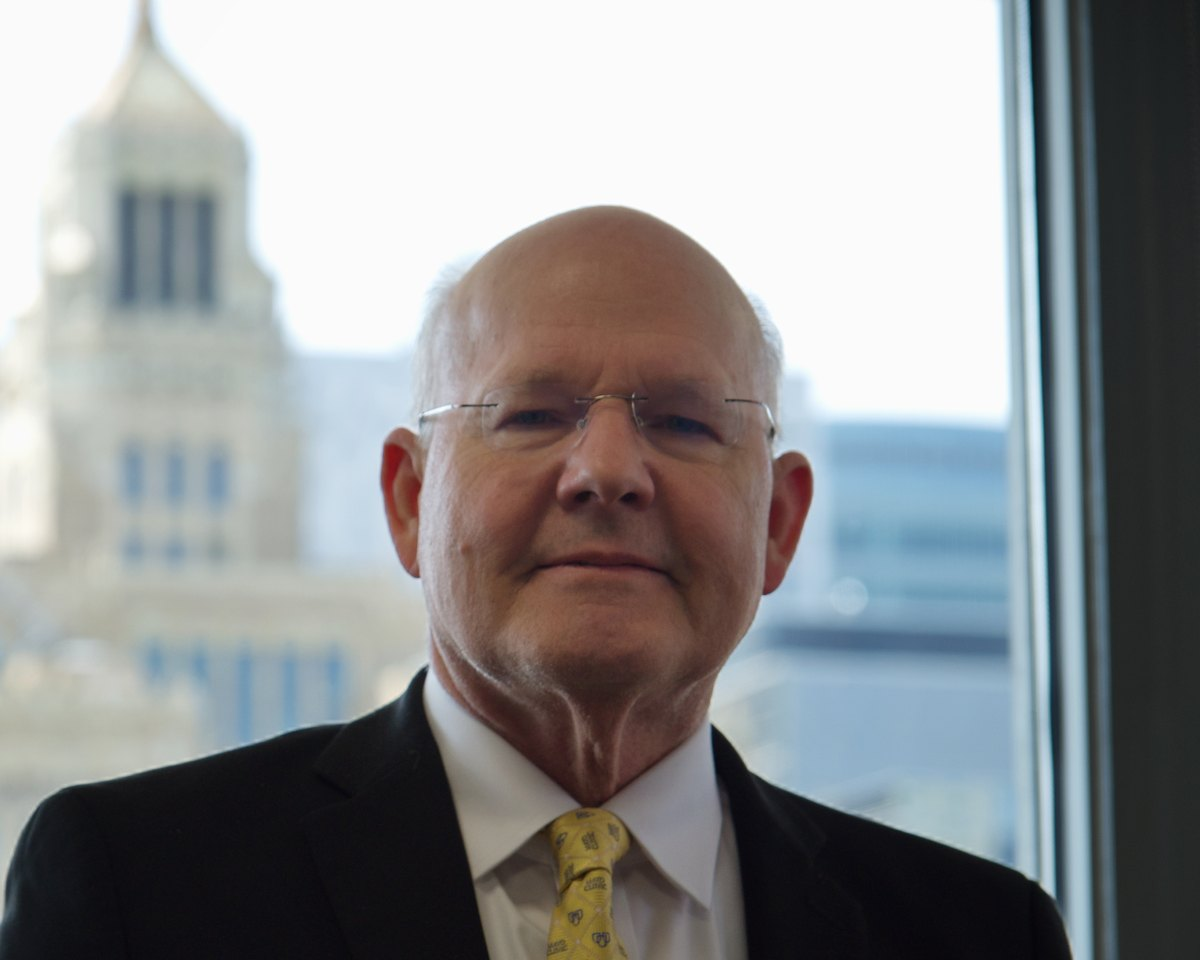
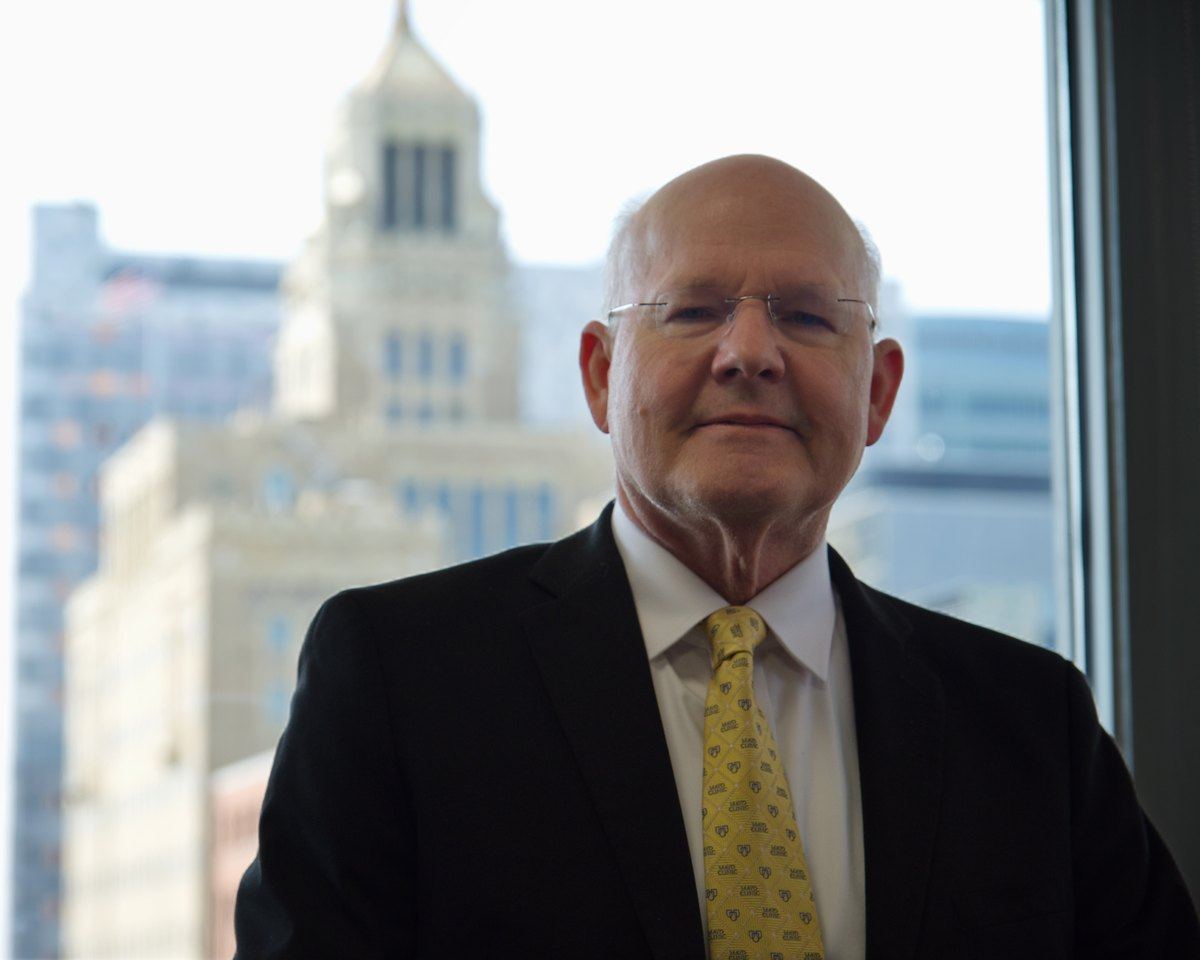
Zoom the 2026 portraits out to full frame
Bennet and Oh were cropped in to put each face at the centre of the file,
which left two head-and-shoulders portraits sitting beside Lee's and
Goerss' three-quarter ones — visibly closer to the camera than the rest
of the row. Both now ship at the full frame, trimmed only to an exact 5:4
(Oh loses 12px of width; Bennet's original is already 5:4), so all four
read at roughly the same distance.

The centring moves to `focus` instead, which is where Lee's and Goerss'
already happened: 83% for Bennet, 89% for Oh, from (face − 32) / 36.

diff --git a/src/pages/Founders.jsx b/src/pages/Founders.jsx
@@ -6,16 +6,23 @@ import { Hero, Reveal, Section } from '../ui/index.js';
  * `focus` is the CSS object-position for the portrait.
  *
  * Every portrait is a landscape frame shown in a 4:5 box, so the browser keeps
- * the full height and crops the sides — and a subject who sits right of centre
- * in the original ends up jammed against the right edge of the card. The two
- * 2026 portraits (Bennet, Oh) were re-cropped on the face, so they take the
- * default. Lee's and Goerss' files are the old site's web-resolution exports;
- * re-cropping those would throw away pixels the page is already upscaling, so
- * they are centred here instead, by moving the crop window rather than the
- * image. The vertical half stays at 0% — see object-top on the <img>.
+ * the full height and crops the sides — and all four subjects sit right of
+ * centre in their originals, which without this puts each face against the
+ * right edge of the card. Moving the crop window is what centres them.
+ *
+ * It is deliberately not done by cropping the files. Bennet's and Oh's 2026
+ * portraits are much tighter shots than Lee's and Goerss', and a face-centred
+ * crop of those two could only be made by cutting in further still — which put
+ * two head-and-shoulders portraits next to two three-quarter ones. Both are now
+ * shipped at full frame, trimmed only to an exact 5:4, so the four read at the
+ * same distance; the centring happens here instead. Lee's and Goerss' files are
+ * the old site's web-resolution exports and could not be re-cropped anyway
+ * without throwing away pixels the page already upscales.
+ *
+ * The vertical half stays at 0% — see object-top on the <img>. Percentages are
+ * (face − 32) / 36, which is where a 64%-wide window has to start to put the
+ * face at its centre.
  */
-const CENTRED = '50% 0%';
-
 const founders = [
   {
     name: 'Kendall H. Lee, M.D., Ph.D.',
@@ -40,7 +47,7 @@ const founders = [
        correct as written. */
     role: 'Co-CEO & Co-Founder',
     image: asset('/kevin-bennet.jpg'),
-    focus: CENTRED,
+    focus: '83% 0%',
     bio: [
       'Dr. Bennet has over 30 years of experience in technology development with organizations including Mayo Clinic, W.R. Grace & Co., Exxon International and Amoco Chemicals. He has been a consultant to the National Institutes of Health and served on NIH site visit teams.',
       'He holds patents concerning neurosurgery, diamond, semiconductor and optical technology and has founded several technology-based companies. He received a degree in Chemical Engineering from the Massachusetts Institute of Technology, an MBA from Harvard and his doctorate from Deakin University.',
@@ -64,7 +71,7 @@ const founders = [
     name: 'Yoonbae Oh, Ph.D.',
     role: 'Co-Founder',
     image: asset('/yoonbae-oh.jpg'),
-    focus: CENTRED,
+    focus: '89% 0%',
     /* Short by comparison because it is only what NaviNetics has supplied: the
        three appointments, plus the publication record that is already on this
        site (see src/data/publications.js — Dr. Oh is the senior author on the

diff --git a/src/pages/WhoWeAre.jsx b/src/pages/WhoWeAre.jsx
@@ -16,7 +16,7 @@ import { Timeline } from '../ui/Timeline.jsx';
 const SHOW_TIMELINE = false;
 
 /* `focus` is the portrait's CSS object-position, and it is the same value the
-   full biography page uses — see the note above `CENTRED` in
+   full biography page uses — see the note above `founders` in
    src/pages/Founders.jsx. It has no visible effect in this 4:3 card, which
    crops these landscape frames vertically rather than horizontally, but the two
    pages should not disagree about where a face is if either box changes shape. */
@@ -26,13 +26,13 @@ const FOUNDERS = [
     image: asset('/kendall-lee-150-500x400-1.jpg'), focus: '83% 0%' },
   { name: 'Kevin E. Bennet', suffix: 'MBA, Ph.D.', role: 'Co-CEO & Co-Founder',
     line: 'Thirty years in technology development. Patents in neurosurgery, diamond, semiconductor and optical technology.',
-    image: asset('/kevin-bennet.jpg'), focus: '50% 0%' },
+    image: asset('/kevin-bennet.jpg'), focus: '83% 0%' },
   { name: 'Stephan J. Goerss', suffix: '', role: 'Co-Founder',
     line: 'Forty years designing neurosurgical devices and stereotactic instrumentation. 51 peer-reviewed papers.',
     image: asset('/stephan-goerss-150.jpg'), focus: '78% 0%' },
   { name: 'Yoonbae Oh', suffix: 'Ph.D.', role: 'Co-Founder',
     line: 'Associate Director of the Neural Engineering Laboratories. Senior author on the laboratory’s neurochemical sensing work.',
-    image: asset('/yoonbae-oh.jpg'), focus: '50% 0%' },
+    image: asset('/yoonbae-oh.jpg'), focus: '89% 0%' },
 ];
 
 /**
